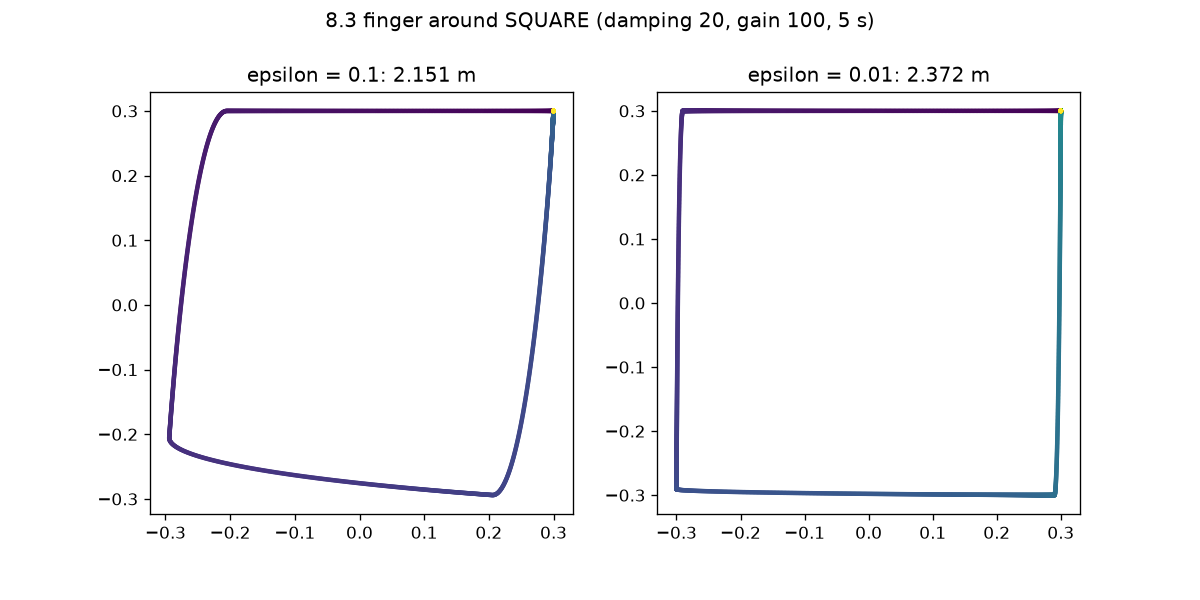
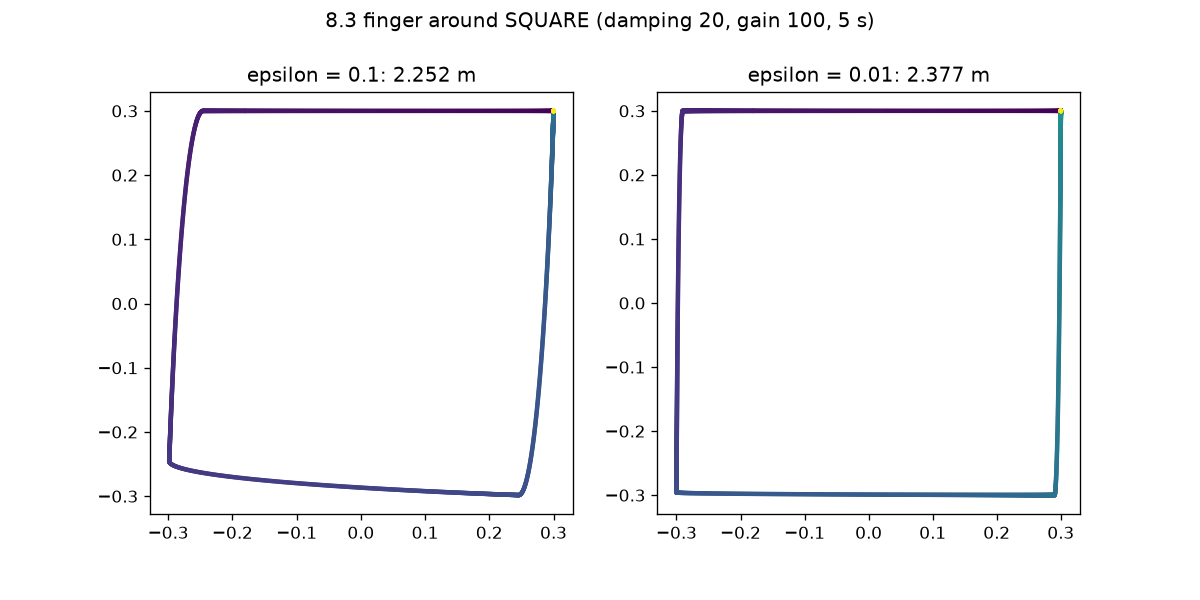
Compare with the official solutions and fix three answers
Record every difference from the official PS1 to PS4 solutions.
Use the default waypoint-follower period in PS1 8.3, which reproduces
the reference path lengths; correct PS2 9.2; complete PS3 7.1.

diff --git a/psets/ps1/cartesian_2d_robot.py b/psets/ps1/cartesian_2d_robot.py
@@ -273,7 +273,7 @@ def create_2d_robot_diagram_with_waypoints(
     builder = DiagramBuilder()
     plant = _add_2d_robot(builder, meshcat)
     observer = builder.AddSystem(Observer(4, [0, 1]))
-    follower = builder.AddSystem(SimpleTrajectoryFollower(waypoints, epsilon, dt=0.01))
+    follower = builder.AddSystem(SimpleTrajectoryFollower(waypoints, epsilon))
     controller = builder.AddSystem(PController2(2, controller_gain))
     builder.Connect(plant.get_state_output_port(), observer.get_input_port())
     builder.Connect(observer.get_output_port(), follower.get_input_port())

diff --git a/answers/comparison_with_official_solutions.md b/answers/comparison_with_official_solutions.md
@@ -1,0 +1,30 @@
+# Comparison with the official solutions
+
+All answers and code were committed (commit `0f946ba`) before I opened the official solutions for PS1 to PS4 in `solutions/fall2026/`. Solutions for PS5 and PS6 are not posted. This file records every place where my committed answer differed from the official one, and what I changed afterwards.
+
+## Summary
+
+| Set | Graded items compared | Differences | Changed afterwards |
+|---|---|---|---|
+| PS1 | all bookwork, all checkpoints | 1 (8.3, a modeling choice) | yes: the follower period, to match |
+| PS2 | all bookwork, all checkpoints | 1 error (9.2), 1 design difference (16.1) | 9.2 corrected |
+| PS3 | all bookwork, all checkpoints, Problem 17 | 1 omission (7.1, one of three blanks) | filled in |
+| PS4 | all bookwork, all checkpoints, Problem 12 | none | no |
+
+## Details
+
+**PS1 8.3, path length around SQUARE.** Mine: 2.1507 m (ε = 0.1) and 2.3719 m (ε = 0.01). Official: 2.2520 and 2.3768 m. My waypoint follower checked for arrival every 0.01 s; the reference uses `SimpleTrajectoryFollower`'s default period of 0.1 s. With the default I reproduce the official values to four decimals (and at 0.001 s get 2.1384 and 2.3711). A follower that checks less often lets the finger run on past the ε ball before it switches target, which lengthens the path. I switched `create_2d_robot_diagram_with_waypoints` to the default so that the reported checkpoints match the assignment's convention.
+
+**PS1, within tolerance.** The settling times (8.2: mine 1.3 to 1.7 s depending on tolerance, official "about 1 s, 1.3 ± 0.5 accepted"; 9.4: mine 4.0 s, official "about 3 s, 3 ± 2 accepted") depend on the tolerance used for "at rest". Both are inside the accepted ranges.
+
+**PS2 9.2, redundant robots.** I ticked "non-singular means infinitely many solutions" and "a null space of dimension > 0 means infinitely many solutions". Official: only the first. The second statement is equivalent to "in all configurations", which is false at singularities. My reasoning missed that for a redundant robot the null-space condition holds everywhere. (The official solution notes that Gradescope originally accepted both.) Corrected in [`ps2.md`](ps2.md).
+
+**PS2 16.1, waypoints in the plan.** Mine 20, official 16. This counts the plan's own design, not a fact about the task. My plan adds a stationary waypoint after each finger change, because the finger command is a zero-order hold that changes when a waypoint is reached; the extra leg gives the fingers time to close before the arm moves. Both plans stack the blocks; mine is verified for all six orders.
+
+**PS2 Problem 17.** The official timing rule, Δt = √(‖Δp‖² + (rθ)²)/s with r = GRIPPER_RADIUS, is the same as mine (`pose_distance` of `pose_delta`).
+
+**PS3 7.1, grid search.** I gave "resolution complete: all" and "practical: some" but left out the first blank, "complete: none". Filled in.
+
+**PS3, otherwise.** Every other bookwork answer matches, including 14.2 (constrain x, y, pitch; slack along the handle, about it, and about the closing axis), the Problem 17 proofs and the bisection sequence in 17.5, and the 18.4 and 18.5 discussion. The numerical checkpoints match: the QP (0.1534, −0.1005, 0.3492; cost 0.5450), test5 (3.0000, 1.3128; two joints at the limit), test6 (−0.0885 m/s; 0.3000 m), the door's final configuration (identical to four decimals), and the PR2 answers.
+
+**PS4.** Every answer matches, including the problem 2 to 9 numbers, the synthetic normal frame, test3 (0.0200 m, 0.0500 m, yes), and the Problem 12 classifications.

diff --git a/answers/ps1.md b/answers/ps1.md
@@ -36,7 +36,7 @@ Going further: a snake has many joints but few actuated ways to move its body as
 | 7.4 P control of the 1D body, gain 10 | **C**: oscillates with growing amplitude. The error grows from 1.1 m in the first 2 s to 9.3 m in the last 2 s. Forward Euler on an undamped oscillator adds energy every step. |
 | 8.1 Why the velocities plateau | **D**: joint damping balances the force. The final velocity is (0.40, 0.10) m/s = F / b exactly. |
 | 8.2 Settling time to (0.9, 0.6), gain 100 | **about 1.7 s** (within 1 mm and 1 mm/s from 1.73 s; within 10 mm and 10 mm/s from 1.32 s) |
-| 8.3 Path length around SQUARE (damping 20, gain 100, 5 s) | ε = 0.1: **2.1507** m; ε = 0.01: **2.3719** m |
+| 8.3 Path length around SQUARE (damping 20, gain 100, 5 s) | ε = 0.1: **2.2520** m; ε = 0.01: **2.3768** m, with the follower at its default 0.1 s period. With a follower checking every 0.01 s (my first version), 2.1507 and 2.3719 m: checking less often lets the finger run on past ε before it switches, which lengthens the path. |
 | 9.1 Zero torque | **C**: it swings down like a multi-link pendulum |
 | 9.2 20 N·m on every joint | **D**: the joints wind up against their limits (final q = [2.97, 2.09, 2.97, 1.72, 2.97, 2.09, 3.05], v = 0) |
 | 9.3 P control, gain 100 | **C**: it oscillates around a gravity-sagged pose (q2 sags about 0.75 rad), with amplitude slowly decreasing |
@@ -77,4 +77,4 @@ On the square (kp = 10⁴): kd = 300 rings badly (max 441 mm off the square). kd
 
 - `DTVectorSystem`: the state is whatever the next-state function needs, and the output is a function of state (and of input, when declared). Body1D has state (x, v) and output x. PController and Observer are stateless, with output depending on input. The waypoint follower's state is the index of the current waypoint, and its output depends only on that state, which is what breaks the algebraic loop when it is wired around the plant.
 - dt appears in the physics (Euler step) and in the PD controller (finite-difference velocity). It does not appear in the P controller, which is memoryless. For the follower, dt only sets how often it checks for arrival.
-- Larger ε cuts corners and shortens the path (2.15 m at ε = 0.1 versus 2.37 m at 0.01). With low gain, a small ε makes the follower wait at each corner until the slow, sagging controller gets inside ε.
+- Larger ε cuts corners and shortens the path (2.25 m at ε = 0.1 versus 2.38 m at 0.01, against 2.4 m for the square itself). With low gain, a small ε makes the follower wait at each corner until the slow, sagging controller gets inside ε.

diff --git a/answers/ps3.md b/answers/ps3.md
@@ -33,7 +33,7 @@ Going further: at 2 rad/s heading for the limit, the one-step position constrain
 **Problem 6.** **19** = 3 (platform x, y, θ) + 2 × 7 (arms) + 2 (one coupled opening per gripper). Going further: no. Locked openings can make a narrow passage impassable that a closed gripper would fit through.
 
 **Problem 7.**
-- 7.1 Grid search: resolution complete for **all**; practical for **some** (low-dimensional domains only).
+- 7.1 Grid search: complete for **none** (a grid can step over a passage narrower than its cells, so failure proves nothing); resolution complete for **all**; practical for **some** (low-dimensional domains only).
 - 7.2 PRM/RRT: complete for **none**; probabilistically complete for **all**; practical for **all**.
 
 Going further: no, failure to find a path is not a proof that none exists. A narrow passage has tiny measure, so the probability of sampling it in a finite run can be very small.

diff --git a/answers/ps2.md b/answers/ps2.md
@@ -79,7 +79,7 @@ Going further:
 
 **Problem 9.**
 - 9.1 **1**.
-- 9.2 The **first** (in non-singular configurations, infinitely many) and **third** (null space of dimension > 0 gives infinitely many).
+- 9.2 Only the **first** (in non-singular configurations, infinitely many). My first answer also ticked the third, but for a redundant robot "the null space has dimension > 0" holds in every configuration, so the third says the same as the second, which is false: at a singularity some velocities have no solution at all. (Corrected after the comparison with the official solutions.)
 - 9.3 **When the Jacobian is rank-deficient.**
 - 9.4 **All five.**
 
